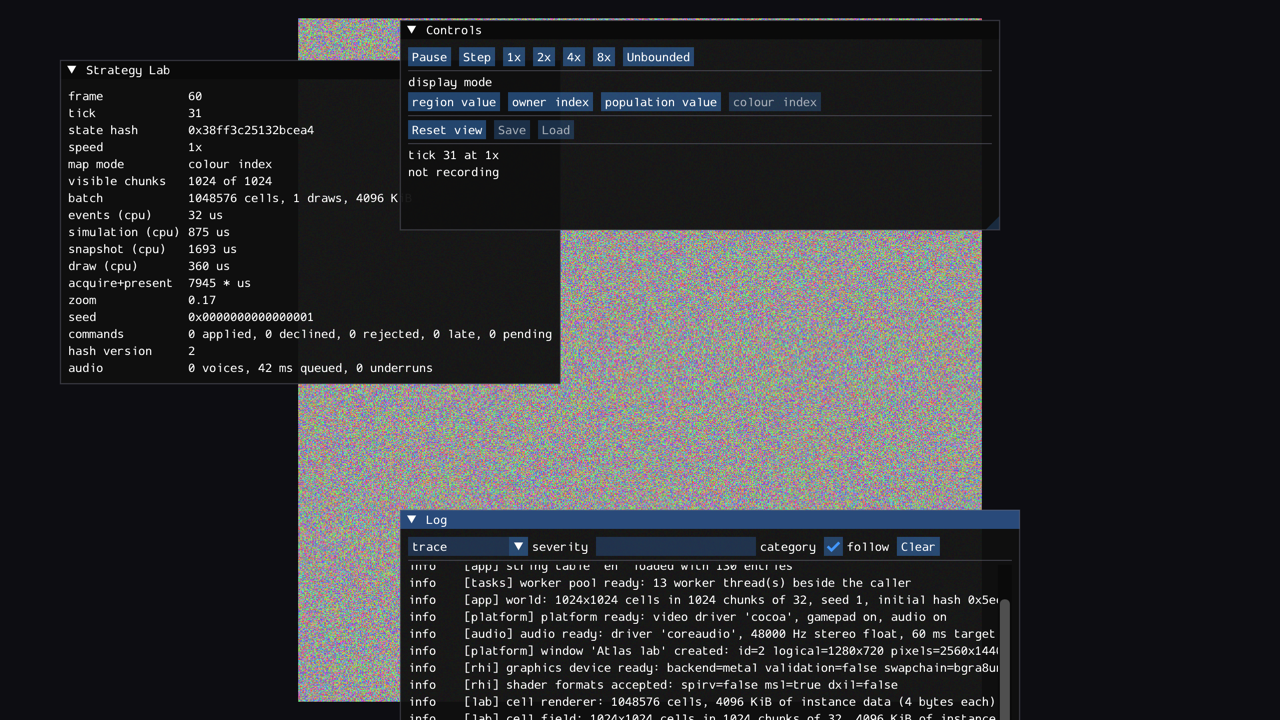
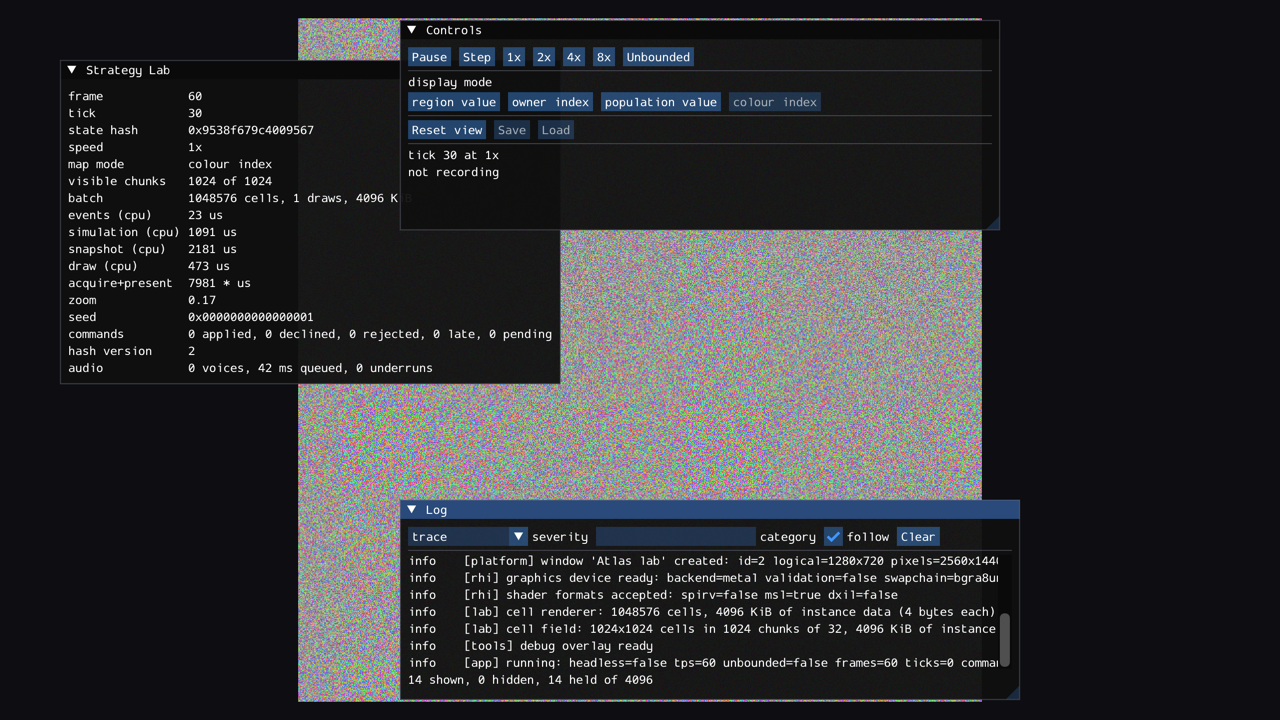
M31: the overlay's layout fits the window, and a drag moves per point
Two things M30 did to the Mac. Drawn at its designed size, the overlay's
default layout was taller than the applications' 1280x720 windows: the scene
panel ran to 840 and its Undo row opened below the edge, where the half-size
overlay before M30 had fitted. Every panel's first place now ends by y=700:
the scene panel 380 tall with a 150-point tree, the log console at 500 and
200 tall. And the library's drag speeds are per pixel, so at two pixels a
point a drag moved a value twice as far for the same movement of the hand;
they are now given per unit of the layout and divided by the scale drawn at.

The README's frames remade: the Undo row and the log's last lines inside.
No test changed outcome; 64 of 64 GPU cases on the Mac.

Changed region(s): [[0.3125, 0.6722, 0.8125, 1.0], [0.1562, 0.3056, 0.1875, 0.3972], [0.1562, 0.1528, 0.25, 0.1833]]

diff --git a/engine/tools/src/debug_ui.cpp b/engine/tools/src/debug_ui.cpp
@@ -58,6 +58,13 @@ constexpr std::size_t kNameBufferSize = 128;
     return {x * scale, y * scale};
 }
 
+/// A drag's speed per unit of the layout, as the library wants it: per pixel. At two pixels a
+/// unit the same speed per pixel moved a value twice as far for the same movement of the hand
+/// (M31). The scale is the one `Impl::draw_at` gave the font, which is the one it drew at.
+[[nodiscard]] float per_point(float speed) {
+    return speed / ImGui::GetStyle().FontScaleDpi;
+}
+
 /// Substitute into a looked-up pattern, for the strings that carry numbers.
 template <typename... Args>
 [[nodiscard]] std::string trf(const text::Catalog* catalog, std::string_view key,
@@ -498,7 +505,7 @@ void draw_position_editor(const text::Catalog* catalog, edit::History& history, 
                           const scene::LocalTransform& local) {
     std::array<float, 2> position{local.position.x, local.position.y};
     if (ImGui::DragFloat2(std::string{tr(catalog, keys::kEditorLocalPosition)}.c_str(),
-                          position.data(), 0.25F)) {
+                          position.data(), per_point(0.25F))) {
         const math::Vec2 edited{.x = position[0], .y = position[1]};
         if (edited != local.position) {
             scene::LocalTransform after = local;
@@ -564,8 +571,8 @@ void draw_animator_editor(const text::Catalog* catalog, edit::History& history, 
     //
     // An unchanged value emits nothing, for the reason written at the position editor: a drag
     // field reports itself edited on every frame the pointer rests on it.
-    if (ImGui::DragFloat(std::string{tr(catalog, keys::kEditorSpeed)}.c_str(), &speed, 0.01F, 0.0F,
-                         scene::kMaxAnimatorSpeed, "%.2f") &&
+    if (ImGui::DragFloat(std::string{tr(catalog, keys::kEditorSpeed)}.c_str(), &speed,
+                         per_point(0.01F), 0.0F, scene::kMaxAnimatorSpeed, "%.2f") &&
         speed != animator.speed) {
         scene::Animator edited = animator;
         edited.speed = std::clamp(speed, 0.0F, scene::kMaxAnimatorSpeed);
@@ -576,8 +583,8 @@ void draw_animator_editor(const text::Catalog* catalog, edit::History& history, 
     }
 
     auto start = static_cast<int>(animator.start_ms);
-    if (ImGui::DragInt(std::string{tr(catalog, keys::kEditorStart)}.c_str(), &start, 10.0F, 0,
-                       static_cast<int>(scene::kMaxAnimatorStartMs))) {
+    if (ImGui::DragInt(std::string{tr(catalog, keys::kEditorStart)}.c_str(), &start,
+                       per_point(10.0F), 0, static_cast<int>(scene::kMaxAnimatorStartMs))) {
         const auto clamped = static_cast<std::uint32_t>(
             std::clamp(start, 0, static_cast<int>(scene::kMaxAnimatorStartMs)));
         if (clamped != animator.start_ms) {
@@ -846,16 +853,18 @@ ScenePanelReport DebugUi::scene_panel(std::string_view title, edit::History& his
     }
 
     // Placed once, then left to the user. Without this the panel opens exactly where the
-    // statistics panel does and hides it, which makes the overlay look broken.
+    // statistics panel does and hides it, which makes the overlay look broken. Every panel's
+    // first place ends by y=700, inside the applications' 1280×720 windows; until M31 this one
+    // ran to 840, and its Undo row opened below the edge.
     ImGui::SetNextWindowPos(scaled(m_impl->drawn_scale, 20.0F, 320.0F), ImGuiCond_FirstUseEver);
-    ImGui::SetNextWindowSize(scaled(m_impl->drawn_scale, 360.0F, 520.0F), ImGuiCond_FirstUseEver);
+    ImGui::SetNextWindowSize(scaled(m_impl->drawn_scale, 360.0F, 380.0F), ImGuiCond_FirstUseEver);
 
     const std::string window_title = title_for(m_impl->catalog, title);
     if (ImGui::Begin(window_title.c_str())) {
         ImGui::TextUnformatted(trf(m_impl->catalog, keys::kSceneEntityCount, scene.size()).c_str());
         ImGui::Separator();
 
-        if (ImGui::BeginChild("tree", scaled(m_impl->drawn_scale, 0.0F, 180.0F),
+        if (ImGui::BeginChild("tree", scaled(m_impl->drawn_scale, 0.0F, 150.0F),
                               ImGuiChildFlags_Borders)) {
             for (const scene::StableId root : scene.roots()) {
                 draw_tree_node(m_impl->catalog, scene, root, selected);
@@ -908,8 +917,8 @@ LogConsoleReport DebugUi::log_console_panel(std::string_view title, const log::L
 
     // Below the asset panel rather than on top of it. Every panel here places itself once and
     // is then left alone, so the first-open layout is the only chance to not look broken.
-    ImGui::SetNextWindowPos(scaled(m_impl->drawn_scale, 400.0F, 510.0F), ImGuiCond_FirstUseEver);
-    ImGui::SetNextWindowSize(scaled(m_impl->drawn_scale, 620.0F, 280.0F), ImGuiCond_FirstUseEver);
+    ImGui::SetNextWindowPos(scaled(m_impl->drawn_scale, 400.0F, 500.0F), ImGuiCond_FirstUseEver);
+    ImGui::SetNextWindowSize(scaled(m_impl->drawn_scale, 620.0F, 200.0F), ImGuiCond_FirstUseEver);
 
     const std::string window_title = title_for(m_impl->catalog, title);
     if (ImGui::Begin(window_title.c_str())) {

diff --git a/engine/tools/tests/test_scene_panel.cpp b/engine/tools/tests/test_scene_panel.cpp
@@ -216,7 +216,7 @@ TEST_CASE("typing into the name field renames through the history", "[tools][gpu
     // a caller can reach a widget it did not position.
     const auto draw_once = [&](float dt) {
         // Large enough to contain the panel where it places itself: the scene panel
-        // defaults to y=320 and is 520 tall, so a short display clips the inspector
+        // defaults to y=320 and is 380 tall, so a shorter display clips the inspector
         // away and no field is drawn at all.
         begin_frame_at(*overlay, harness->window, dt, 1280.0F, 900.0F);
         auto report = overlay->scene_panel("Scene", history);
@@ -358,7 +358,7 @@ TEST_CASE("typing into the log filter changes what the console shows", "[tools][
     buffer.push(record("beta", "three"));
 
     const auto draw_once = [&] {
-        // The log console defaults to y=510 and is 280 tall; see the note above.
+        // The log console defaults to y=500 and is 200 tall; see the note above.
         begin_frame_at(*overlay, harness->window, 1.0F / 60.0F, 1280.0F, 900.0F);
         auto report = overlay->log_console_panel("Log", buffer);
         auto gpu_frame = harness->device.begin_frame();
